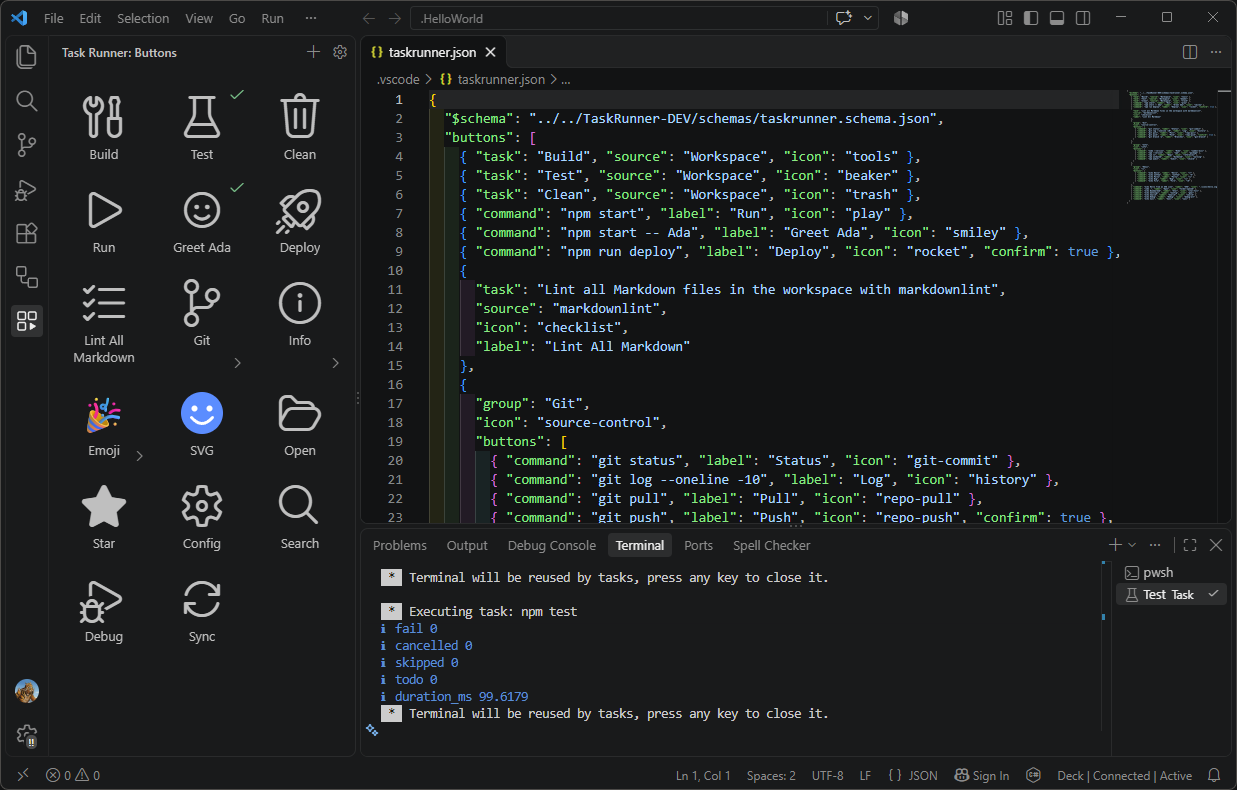
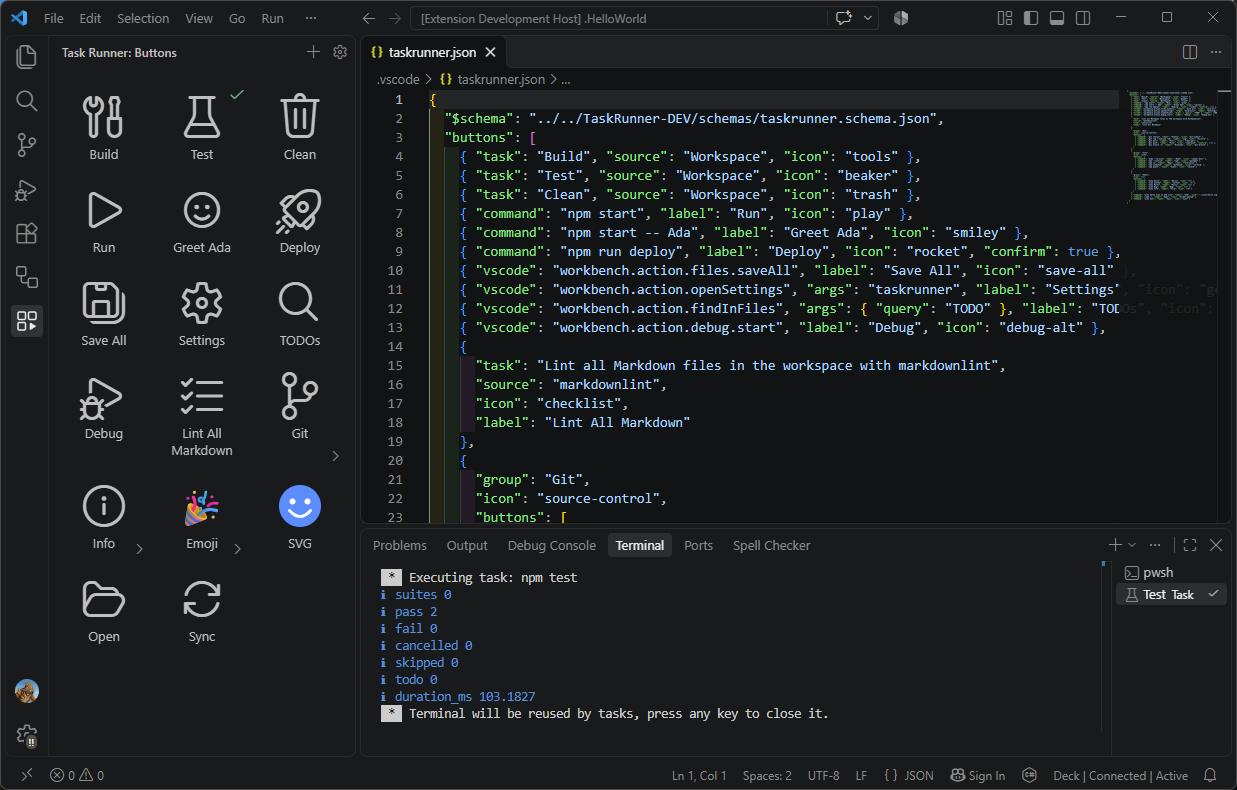
fix: update README and SECURITY.md for VS Code command support

diff --git a/README.md b/README.md
@@ -1,16 +1,16 @@
 # Task Runner
 
-A VS Code sidebar grid of big, labelled buttons that run your tasks and shell commands with one click.
+A VS Code sidebar grid of big, labelled buttons that run your tasks, shell commands and VS Code commands with one click.
 
 ![Task Runner sidebar showing a grid of icon buttons next to taskrunner.json](.images/taskrunner-screenshot.png)
 
 ## Features
 
-- **One-click buttons.** Each button runs a task from `tasks.json` (or any task provider, such as npm) or a plain shell command.
+- **One-click buttons.** Each button runs a task from `tasks.json` (or any task provider, such as npm), a plain shell command or any VS Code command (with optional arguments).
 - **Big, readable icons.** Icons range from 32 to 128 px, with optional labels underneath.
 - **Flexible icons.** Use a [Codicon](https://microsoft.github.io/vscode-codicons/dist/codicon.html) name, a workspace image (`.svg` or `.png`) or an emoji.
 - **Groups.** Nest buttons in folder-like groups to keep the grid tidy.
-- **Run status.** A check mark shows on buttons whose last run succeeded.
+- **Run status.** A task or shell button shows a spinner while it runs, then a check mark or an error badge for how its last run ended.
 - **Confirm before running.** Mark deploy-style buttons with `"confirm": true`.
 - **Edit in the UI or in the file.** Add buttons, rename them, change icons, remove them and reorder them by drag and drop. Right-click a button for the menu. Everything is stored in a plain JSON file, and your comments are kept when the extension edits it.
 - **Schema and completion.** `.vscode/taskrunner.json` is validated against a bundled JSON schema.
@@ -27,13 +27,16 @@ Buttons live in `.vscode/taskrunner.json`, in the order shown:
 
 ```jsonc
 {
-  "$schema": "../schemas/taskrunner.schema.json",
   "buttons": [
     // Run a task from tasks.json
     { "task": "Build", "source": "Workspace", "icon": "tools" },
 
     // Run a shell command
     { "command": "npm start", "label": "Run", "icon": "play" },
+
+    // Run a VS Code command, with an optional argument as in keybindings.json
+    { "vscode": "workbench.action.files.saveAll", "label": "Save all", "icon": "save-all" },
+    { "vscode": "editor.action.insertSnippet", "args": { "snippet": "// TODO: $0" }, "label": "TODO" },
 
     // Ask first
     { "command": "npm run deploy", "label": "Deploy", "icon": "rocket", "confirm": true },
@@ -53,7 +56,7 @@ Buttons live in `.vscode/taskrunner.json`, in the order shown:
 
 ### Button properties
 
-A button must have exactly one of `task`, `command`, or `group` with `buttons`.
+A button must have exactly one of `task`, `command`, `vscode`, or `group` with `buttons`.
 
 | Property | Applies to | Description |
 | --- | --- | --- |
@@ -64,11 +67,13 @@ A button must have exactly one of `task`, `command`, or `group` with `buttons`.
 | `cwd` | command | Working directory. Defaults to the workspace folder. |
 | `env` | command | Extra environment variables. |
 | `shell` | command | Shell executable to use instead of the default, e.g. `"bash"`. |
+| `vscode` | vscode | VS Code command id, as in `keybindings.json`. Anything in the Command Palette works; completion lists the ids. |
+| `args` | vscode | Argument for the command, as in `keybindings.json`: any JSON value, passed as written (`${...}` variables are not resolved). |
 | `group` | group | Group name. Requires `buttons`, which may contain more groups. |
-| `label` | all | Text under the icon. Defaults to the task label or the command. |
-| `icon` | all | Codicon name, workspace-relative image, or emoji. Defaults by task group; groups default to `folder`. |
+| `label` | all | Text under the icon. Defaults to the task label, the command, or the VS Code command's title. |
+| `icon` | all | Codicon name, workspace-relative image, or emoji. Defaults by task group; VS Code commands default to `symbol-event`, groups to `folder`. |
 | `tooltip` | all | Hover text. Defaults to what the button will run. |
-| `confirm` | task, command | Ask before running. Default `false`. |
+| `confirm` | task, command, vscode | Ask before running. Default `false`. |
 | `id` | all | Stable identifier, unique within the file. Derived automatically if omitted. |
 
 > **Windows paths in JSON:** a backslash starts an escape, so `\t` or `\b` silently turns into a control character. Write `.\\scripts\\build.ps1` or use forward slashes.
@@ -87,7 +92,7 @@ The full definition is in [schemas/taskrunner.schema.json](schemas/taskrunner.sc
 
 | Command | Description |
 | --- | --- |
-| Task Runner: Add to the Grid... | Add a task or command button. |
+| Task Runner: Add to the Grid... | Add a task, shell command, VS Code command or group. |
 | Task Runner: Pick Tasks for the Grid | Choose from your existing tasks. |
 | Task Runner: Open Config | Open `.vscode/taskrunner.json`. |
 | Task Runner: Create Config | Create a starter config file. |

diff --git a/SECURITY.md b/SECURITY.md
@@ -12,6 +12,6 @@ Report vulnerabilities privately through GitHub's [Security Advisories](https://
 
 Include the affected version or commit, the relevant file or operation, steps to reproduce the issue, and the potential impact. Attach a minimal sample `taskrunner.json` only if it is safe and appropriate to do so.
 
-Task Runner is a VS Code extension that runs tasks and shell commands from buttons defined in `.vscode/taskrunner.json`, and it loads icons from workspace files into a webview. Relevant reports may include a workspace configuration that runs a command without the user clicking its button or without the `confirm` prompt; behavior that bypasses the limited support for untrusted workspaces; icon paths that read files outside the workspace; script injection or a content security policy bypass in the webview; and unsafe edits to the configuration file.
+Task Runner is a VS Code extension that runs tasks, shell commands and VS Code commands from buttons defined in `.vscode/taskrunner.json`, and it loads icons from workspace files into a webview. Relevant reports may include a workspace configuration that runs a task, shell command or VS Code command without the user clicking its button or without the `confirm` prompt; behavior that bypasses the limited support for untrusted workspaces; icon paths that read files outside the workspace; script injection or a content security policy bypass in the webview; and unsafe edits to the configuration file.
 
 The maintainers will acknowledge reports and provide updates as they investigate and work on a fix. Once a fix is released, the security advisory can be published, and reporters will be credited if they wish.
